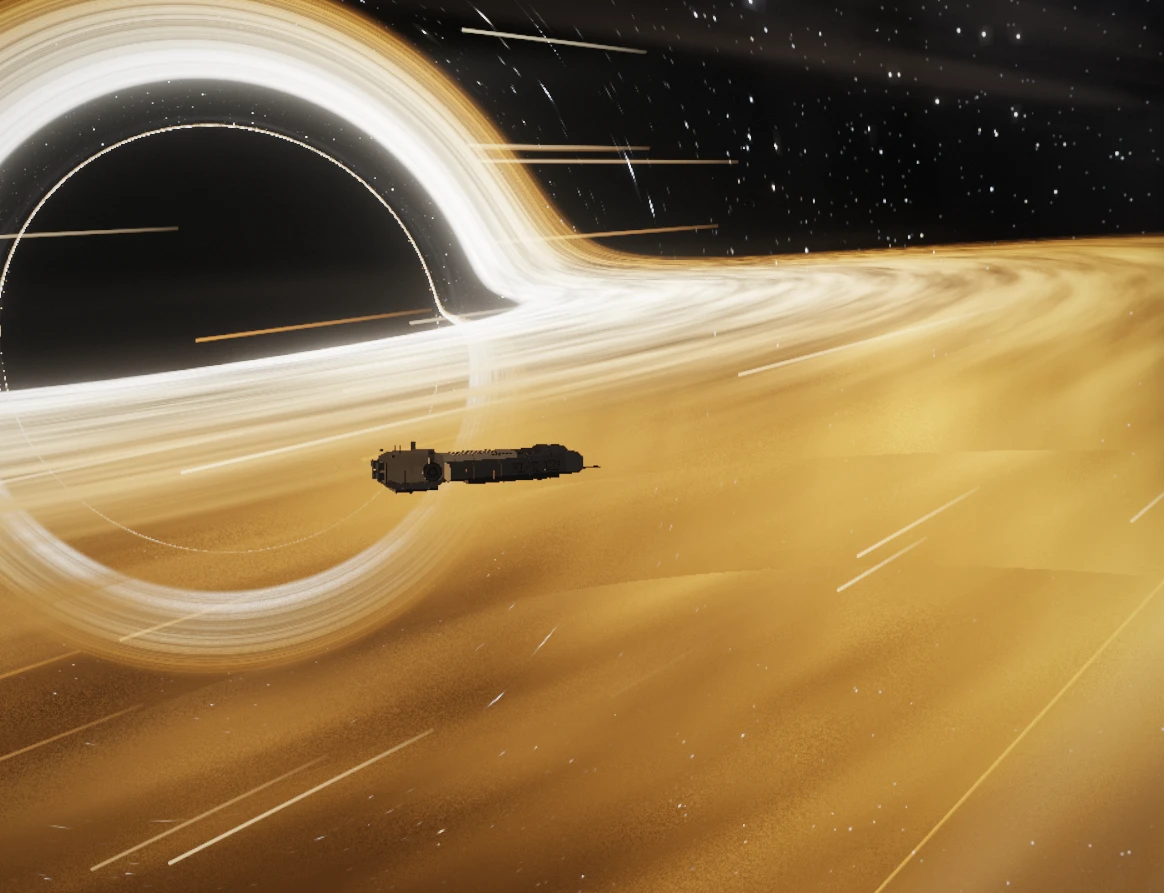
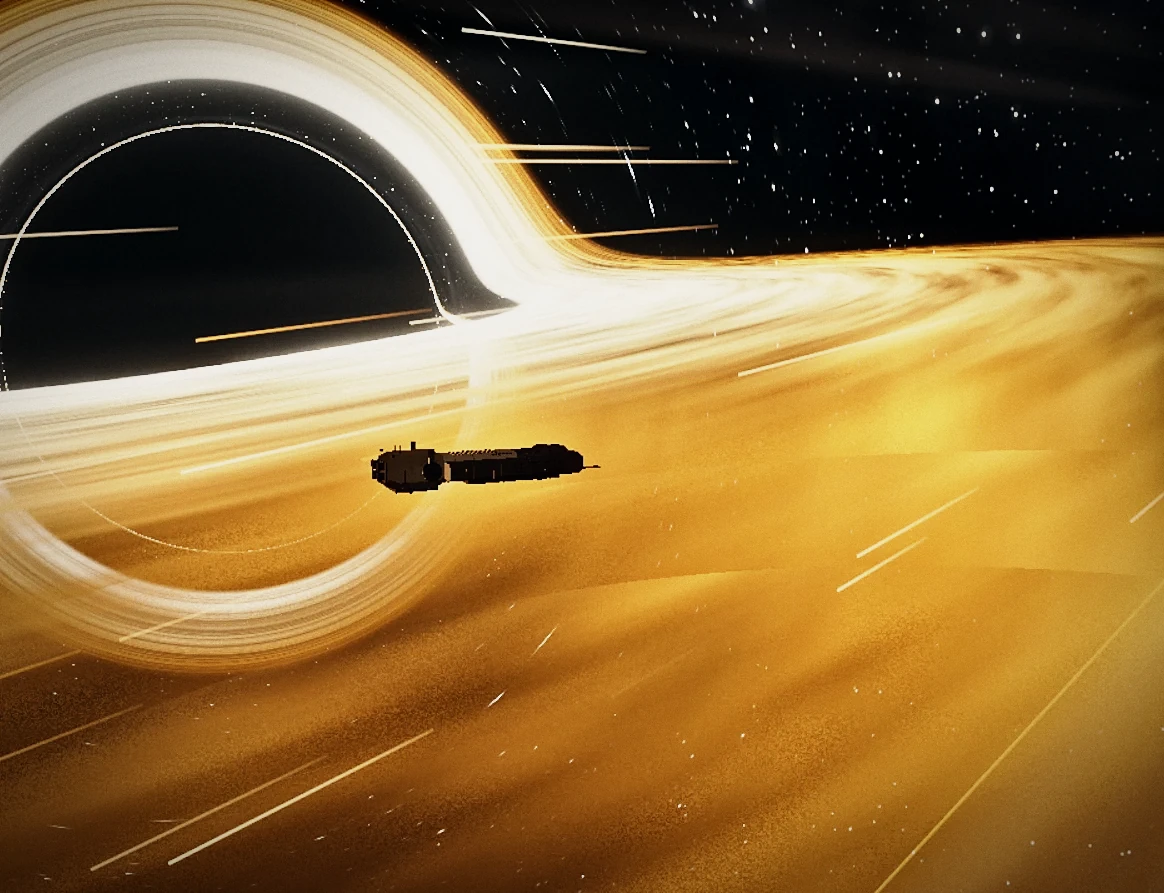
Poles foto menu: clarity, kurva S, color grade sinematik tanpa ubah objek; tombol banding di v3
Claude-Session: https://claude.ai/code/session_012MWTv9BBeMDvjiS3RjMLGd

diff --git a/docs/app/menu-infografis-v3.html b/docs/app/menu-infografis-v3.html
@@ -79,6 +79,9 @@
   .card b { display: block; font-size: 15px; color: #fff; }
   .card span { font-size: 13px; color: #c8ced7; }
   .card.r { left: auto; right: 18px; }
+  .ba { position: absolute; z-index: 4; top: 14px; left: 14px; font: 600 12px system-ui, sans-serif; color: #fff; cursor: pointer;
+    background: rgba(6,8,12,0.78); border: 1px solid rgba(255,255,255,0.25); border-radius: 99px; padding: 5px 12px; backdrop-filter: blur(6px); }
+  .ba.on { background: #fff; color: #111; }
   .card.tr { left: auto; right: 18px; top: 18px; bottom: auto; }
   .imgbox { position: relative; }
   .card.fade { animation: cardIn .45s ease; }
@@ -316,7 +319,7 @@
   // Teks Indonesia = sumber; English di en. Bahasa dibagi lewat localStorage 'lazarus.lang' dan ?lang= (sama dengan index.html).
   const TXT = {
     id: {
-      tagline: 'Perjalanan dari Saturnus sampai tepi lubang hitam', scroll: 'Gulir', play: 'Mulai',
+      tagline: 'Perjalanan dari Saturnus sampai tepi lubang hitam', scroll: 'Gulir', play: 'Mulai', ba_show: 'Lihat foto asli', ba_back: 'Kembali ke hasil poles',
       r1: 'kota berputar di orbit Saturnus', r2: 'lubang hitam berputar', r3: 'planet air, waktu melambat',
       c_kind: 'Silinder O\'Neill', c_hook: 'Berjalan di dinding dalam sebuah kota yang berputar.',
       c_lead: 'Foto di bawah diambil dari dalam silinder, menghadap sepanjang sumbu. Kota, ladang, dan sungai melingkar di sekelilingmu, dan putaran 63,4 s menekan semuanya ke dinding dengan 1 g.',
@@ -340,7 +343,7 @@
       footer: 'Proyek penggemar untuk belajar fisika dan grafis 3D. Tidak berafiliasi dengan studio film mana pun. Semua model, musik, dan desain dibuat sendiri.',
     },
     en: {
-      tagline: 'A journey from Saturn to the edge of a black hole', scroll: 'Scroll', play: 'Play',
+      tagline: 'A journey from Saturn to the edge of a black hole', scroll: 'Scroll', play: 'Play', ba_show: 'Show original', ba_back: 'Back to graded',
       r1: 'a spinning city orbiting Saturn', r2: 'a spinning black hole', r3: 'water world, time slows down',
       c_kind: 'O\'Neill cylinder', c_hook: 'Walk the inside wall of a spinning city.',
       c_lead: 'The shot below is taken inside the cylinder, looking along the axis. City, fields and river wrap all around you, and a 63.4 s spin presses everything to the wall at 1 g.',
@@ -476,6 +479,10 @@
     const key = p.dataset.p, S = SPOTS[key];
     PH[key] = { el: p, sel: 0, user: false, vis: false };
     const box = p.querySelector('.imgbox');
+    // prototipe: banding foto asli (menu/asli/) vs hasil poles (tools/poles_foto_menu.py)
+    const img = box.querySelector('img'), ba = document.createElement('button'), base = img.getAttribute('src');
+    ba.type = 'button'; ba.className = 'ba'; box.appendChild(ba);
+    ba.addEventListener('click', () => { const on = ba.classList.toggle('on'); img.src = on ? base.replace('menu/', 'menu/asli/') : base; ba.textContent = T(on ? 'ba_back' : 'ba_show'); });
     S.list.forEach((s, i) => {
       const b = document.createElement('button'); b.type = 'button'; b.className = 'spot' + (s.l ? ' l' : '');
       b.style.left = (s.x / S.w * 100) + '%'; b.style.top = (s.y / S.h * 100) + '%'; b.style.setProperty('--d', (0.5 + i * 0.12) + 's');
@@ -575,6 +582,7 @@
       PH[k].el.querySelectorAll('.spot .lab').forEach((l, i) => { l.textContent = (en ? SPOTS[k].list[i].en : SPOTS[k].list[i].id)[0]; });
       selSpot(k, PH[k].sel);
     }
+    document.querySelectorAll('.ba').forEach((b) => { b.textContent = T(b.classList.contains('on') ? 'ba_back' : 'ba_show'); });
     updCopper(); updMillar();
     langBox.querySelectorAll('button').forEach((b) => b.classList.toggle('on', b.dataset.lang === LANG));
   }

diff --git a/tools/poles_foto_menu.py b/tools/poles_foto_menu.py
@@ -1,0 +1,118 @@
+"""Poles foto menu (docs/app/menu/asli/*.webp -> docs/app/menu/*.webp): lebih jernih, dramatis, sinematik.
+Hanya olahan nada dan warna per piksel (clarity, penajaman, kurva S, split toning, bloom, vinyet, bahu highlight, butiran).
+Tidak ada objek yang ditambah, dihapus, atau dipindah; ukuran gambar sama persis, jadi penanda SPOTS tetap valid.
+Pakai: python tools/poles_foto_menu.py [nama ...]   (butuh: pip install numpy pillow)
+Atur angka di PRESET lalu jalankan ulang; foto asli tidak pernah ditimpa."""
+import pathlib, sys
+import numpy as np
+from PIL import Image
+
+ROOT = pathlib.Path(__file__).resolve().parent.parent
+SRC = ROOT / 'docs/app/menu/asli'
+DST = ROOT / 'docs/app/menu'
+
+# Parameter per foto. clarity = kontras lokal (radius px), sharp = penajaman halus, curve = kekuatan kurva S,
+# bp = titik hitam, sh / hl = warna bayangan / highlight (RGB, ditambahkan), sat = saturasi,
+# bloom = (ambang, kekuatan, radius px), vig = kekuatan vinyet, grain = simpangan derau butiran,
+# protect = 1 melindungi nada terang dari kurva S, knee = awal bahu highlight (lebih tinggi = cincin terang di langit pucat Millar tetap terpisah dari langit).
+PRESET = {
+    'cooper':    dict(clarity=(0.55, 22), sharp=0.55, curve=0.32, bp=0.025, sh=(-0.012, 0.000, 0.022), hl=(0.030, 0.014, -0.018),
+                      sat=1.12, bloom=(0.82, 0.22, 14), vig=0.34, grain=0.010, knee=0.78),
+    'gargantua': dict(clarity=(0.45, 26), sharp=0.40, curve=0.36, bp=0.030, sh=(-0.010, 0.004, 0.016), hl=(0.028, 0.010, -0.026),
+                      sat=1.10, bloom=(0.72, 0.32, 18), vig=0.40, grain=0.010, knee=0.78),
+    'millar':    dict(clarity=(0.60, 26), sharp=0.45, curve=0.30, bp=0.035, sh=(-0.020, 0.006, 0.022), hl=(0.012, 0.008, -0.004),
+                      sat=0.96, bloom=(0.90, 0.12, 16), vig=0.28, grain=0.005, knee=0.90, protect=1),
+}
+
+
+def box(a, r):
+    """Blur kotak radius r di dua sumbu (cumsum), tepi dipantulkan."""
+    if r < 1:
+        return a
+    for ax in (0, 1):
+        p = np.pad(a, [(r + 1, r) if i == ax else (0, 0) for i in range(a.ndim)], mode='reflect')
+        c = np.cumsum(p, axis=ax)
+        n = a.shape[ax]
+        hi = np.take(c, np.arange(2 * r + 1, 2 * r + 1 + n), axis=ax)
+        lo = np.take(c, np.arange(0, n), axis=ax)
+        a = (hi - lo) / (2 * r + 1)
+    return a
+
+
+def blur(a, sigma):
+    """Mendekati blur Gaussian dengan tiga blur kotak."""
+    r = max(1, int(round(sigma * 0.85)))
+    return box(box(box(a, r), r), r)
+
+
+def lum(rgb):
+    return rgb[..., 0] * 0.2126 + rgb[..., 1] * 0.7152 + rgb[..., 2] * 0.0722
+
+
+def smooth(e0, e1, x):
+    t = np.clip((x - e0) / (e1 - e0), 0, 1)
+    return t * t * (3 - 2 * t)
+
+
+def poles(rgb, P, seed):
+    L = lum(rgb)
+    # 1. clarity: kontras lokal di nada tengah
+    k, r = P['clarity']
+    mid = np.clip(4 * L * (1 - L), 0, 1)
+    rgb = rgb + (k * (L - blur(L, r)) * mid)[..., None]
+    # 2. penajaman halus berambang (artefak kompresi kecil tidak ikut ditajamkan)
+    L = lum(rgb)
+    d = L - blur(L, 1)
+    rgb = rgb + (P['sharp'] * d * smooth(0.004, 0.02, np.abs(d)))[..., None]
+    # 3. titik hitam + kurva S
+    rgb = np.clip((rgb - P['bp']) / (1 - P['bp']), 0, 1)
+    s = rgb * rgb * (3 - 2 * rgb)
+    # protect: kurva S tidak menyentuh nada terang (kurva S menekan beda antar highlight, cincin di langit pucat jadi pudar)
+    rgb = rgb + P['curve'] * (s - rgb) * (1 - P.get('protect', 0) * smooth(0.55, 0.85, rgb))
+    # 4. split toning + saturasi
+    L = lum(rgb)[..., None]
+    rgb = rgb + (1 - L) ** 2 * np.array(P['sh']) + L ** 2 * np.array(P['hl'])
+    L = lum(rgb)[..., None]
+    rgb = L + (rgb - L) * P['sat']
+    # 5. bloom halus dari highlight
+    thr, kb, rb = P['bloom']
+    hi = np.clip(rgb - thr, 0, None)
+    rgb = rgb + kb * np.stack([blur(hi[..., i], rb) for i in range(3)], -1)
+    # 6. vinyet lembut
+    h, w = L.shape[:2]
+    yy, xx = np.mgrid[0:h, 0:w]
+    rr = np.hypot((xx - w / 2) / (w / 2), (yy - h / 2) / (h / 2)) / np.sqrt(2)
+    rgb = rgb * (1 - P['vig'] * smooth(0.45, 1.0, rr))[..., None]
+    # 7. bahu highlight: nilai di atas knee ditekan lembut menuju 1 (tidak terpotong rata putih)
+    k0 = P['knee']
+    over = np.clip(rgb - k0, 0, None)
+    rgb = np.where(rgb > k0, k0 + (1 - k0) * (1 - np.exp(-over / (1 - k0))), rgb)
+    # 8. butiran film (benih tetap, hasil bisa diulang), paling kuat di nada tengah
+    L = lum(np.clip(rgb, 0, 1))
+    g = np.random.default_rng(seed).normal(0, P['grain'], L.shape) * (0.35 + np.clip(4 * L * (1 - L), 0, 1))
+    rgb = rgb + g[..., None] * (1 - smooth(0.9, 1.0, rgb))
+    return np.clip(rgb, 0, 1)
+
+
+def stat(rgb):
+    L = lum(rgb)
+    clip = np.mean((rgb >= 0.999).any(-1) | (rgb <= 0.001).all(-1)) * 100
+    return f'rata {L.mean():.3f}  p1 {np.percentile(L, 1):.3f}  p99 {np.percentile(L, 99):.3f}  terpotong {clip:.2f}%'
+
+
+def main():
+    names = sys.argv[1:] or list(PRESET)
+    for n in names:
+        im = Image.open(SRC / f'{n}.webp').convert('RGB')
+        a = np.asarray(im, dtype=np.float32) / 255
+        b = poles(a, PRESET[n], seed=sum(map(ord, n)))
+        out = Image.fromarray((b * 255 + 0.5).astype(np.uint8))
+        assert out.size == im.size
+        out.save(DST / f'{n}.webp', quality=90, method=6)
+        print(f'{n}: {im.size[0]}x{im.size[1]}')
+        print(f'  asli   {stat(a)}')
+        print(f'  poles  {stat(b)}')
+
+
+if __name__ == '__main__':
+    main()

diff --git a/CLAUDE.md b/CLAUDE.md
@@ -45,6 +45,7 @@ Kumpulan experience 3D bertema perjalanan antarbintang, dipanggil dari menu utam
 | `tools/uji_air_mancur.py` | Uji Copper Corn Station 21a-1: tidak ada orang, pohon, atau merpati di kolam air mancur; pengunjung datang dan pergi, kelompok mengobrol bubar dan berkumpul lagi (30 menit), jalur tidak menembus pohon |
 | `tools/uji_kaca_cooper.py` | Uji Copper Corn Station 21b: kaca jendela rumah Cooper bening dari dalam (alpha kecil, paling tinggi 0,35 walau miring), pantulan daratan dari luar tetap, tanpa nilai tidak valid |
 | `tools/uji_gedung_malam.py` | Uji Copper Corn Station 21c: menara kaca malam dari 800 m tidak terang rata (sebaran per blok dan lantai), faktor jam kantor / hunian, siang tidak berubah, tanpa nilai tidak valid |
+| `tools/poles_foto_menu.py` | Poles foto menu `docs/app/menu/asli/*.webp` -> `docs/app/menu/*.webp` (clarity, kurva S, split toning, bloom, vinyet, butiran; ukuran sama, tanpa ubah objek; `PRESET` per foto; butuh numpy, pillow) |
 | `tools/siapkan_motor.py` | Olah model motor GLB sumber (Sketchfab, CC BY 4.0) menjadi `experiences/cooper-station/assets/motor.data.js` (butuh numpy, pillow) |
 | `experiences/cooper-station/assets/` | Aset data (bukan kode): `motor.data.js` (model motor, base64) + `KREDIT.md` (sumber dan lisensi) |
 | `shared/kestrel.js` | Modul bersama pertama (skrip biasa, `window.KESTREL`, jalan dari file://): v1 `build(THREE)` (disimpan, identik dengan Copper 11d), v3 `buildV3(THREE)` (disimpan: geometri dari blokout v3 + pintu, tapak, lampu, `low`, `belly`), v5 `buildV5(THREE)` (dipakai Millar dan Copper: blokout v5 + palet gelap doff + lapisan kotor dan gosong per titik (gosong masuk atmosfer bergradasi putih pudar, abu-abu, jelaga; cincin badan tiap 0,6 m), badan `geo`, kaca `glass`, kaki/tangga `legs` terpisah, nozzles, fans, eye), kokpit `buildCockpitV5(THREE)` (geo, stick, throttle, stickAt, throttleAt, screens 3 MFD, eye), penampang `v5At(z)`, kaki lama `gear(THREE, padDrop)`, `mergeColored` |

diff --git a/docs/app/konsep-menu-infografis.md b/docs/app/konsep-menu-infografis.md
@@ -56,3 +56,17 @@ Foto in-game dari pemilik (`docs/app/menu/cooper.webp`, `gargantua.webp`, `milla
 
 Posisi penanda ditulis dalam piksel foto asli (`SPOTS`), jadi bila foto diganti, koordinatnya ikut diubah.
 Saat dipasang ke `index.html`, foto sebaiknya pindah ke `experiences/<id>/menu.webp`.
+
+## Poles foto menu (`tools/poles_foto_menu.py`)
+Foto asli disimpan di `docs/app/menu/asli/`; hasil poles menimpa `docs/app/menu/<nama>.webp` (ukuran sama, penanda tetap pas).
+Hanya olahan nada dan warna per piksel, tidak ada objek yang diubah.
+
+| Langkah | Efek |
+| --- | --- |
+| Clarity | Kontras lokal di nada tengah (radius 22-26 px) |
+| Penajaman | Radius 1 px, berambang agar artefak kompresi tidak ikut |
+| Titik hitam + kurva S | Hitam lebih dalam; Millar: nada terang dilindungi agar cincin di langit tetap terpisah |
+| Split toning + saturasi | Copper hijau kaya dan highlight keemasan; Gargantua emas dalam, bayangan teal; Millar dingin dan suram |
+| Bloom, vinyet, bahu highlight, butiran | Kesan sinematik tanpa highlight terpotong (0,00% di ketiga foto) |
+
+Ubah angka di `PRESET` lalu jalankan `python tools/poles_foto_menu.py [nama]`. Di prototipe v3 ada tombol "Lihat foto asli" untuk membandingkan.
